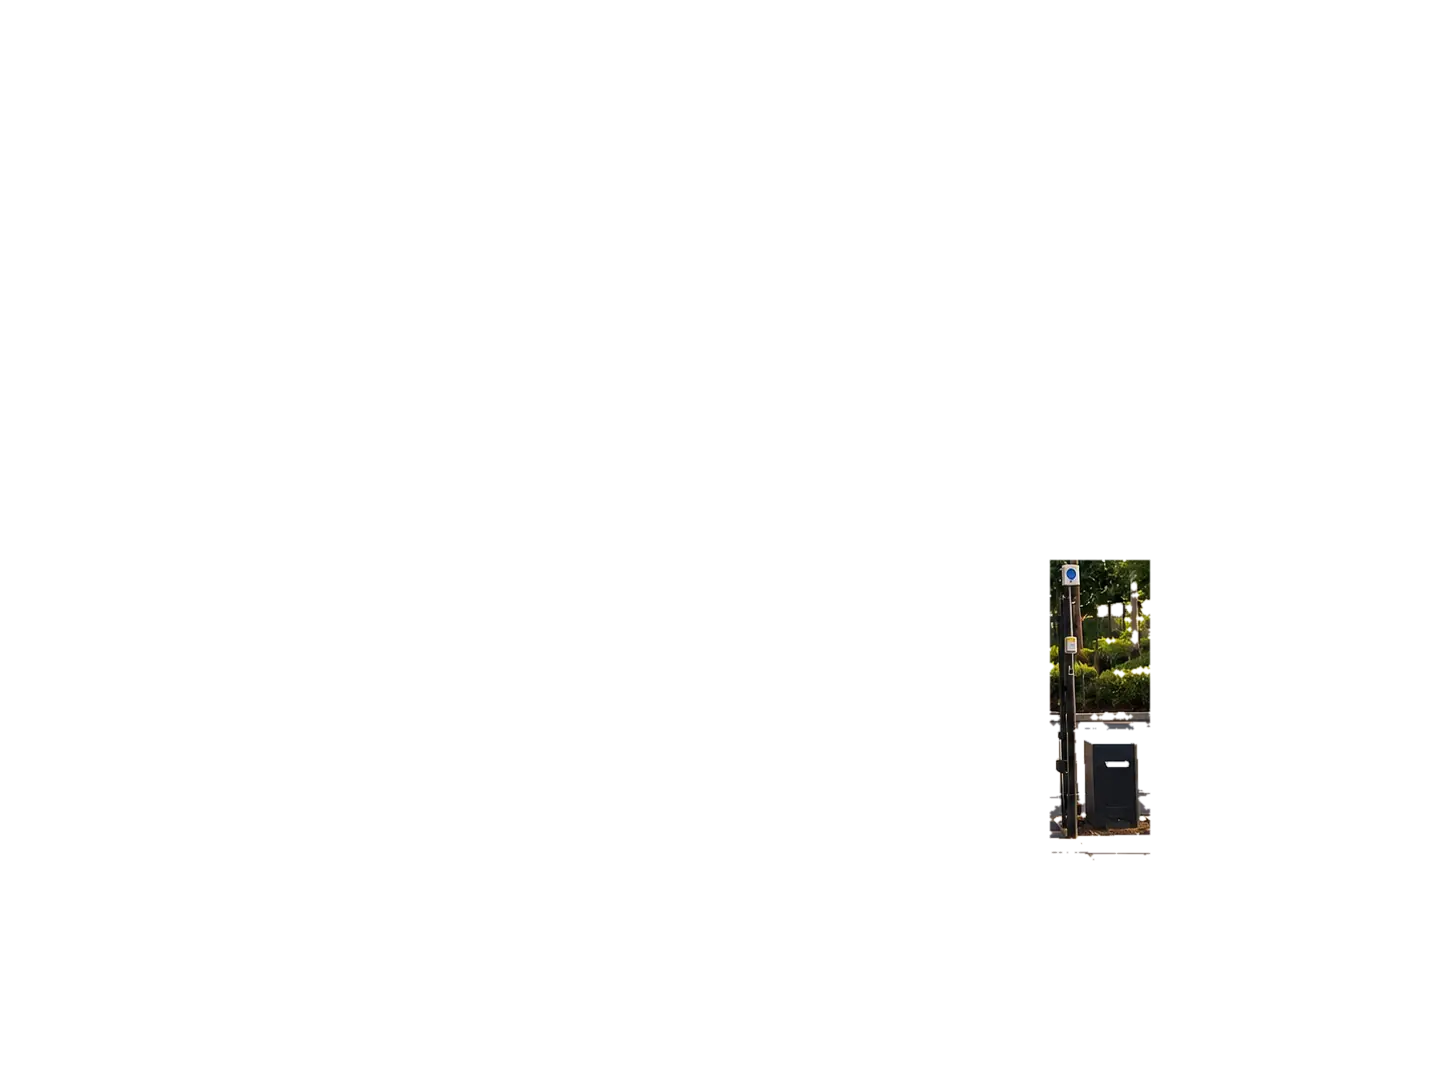
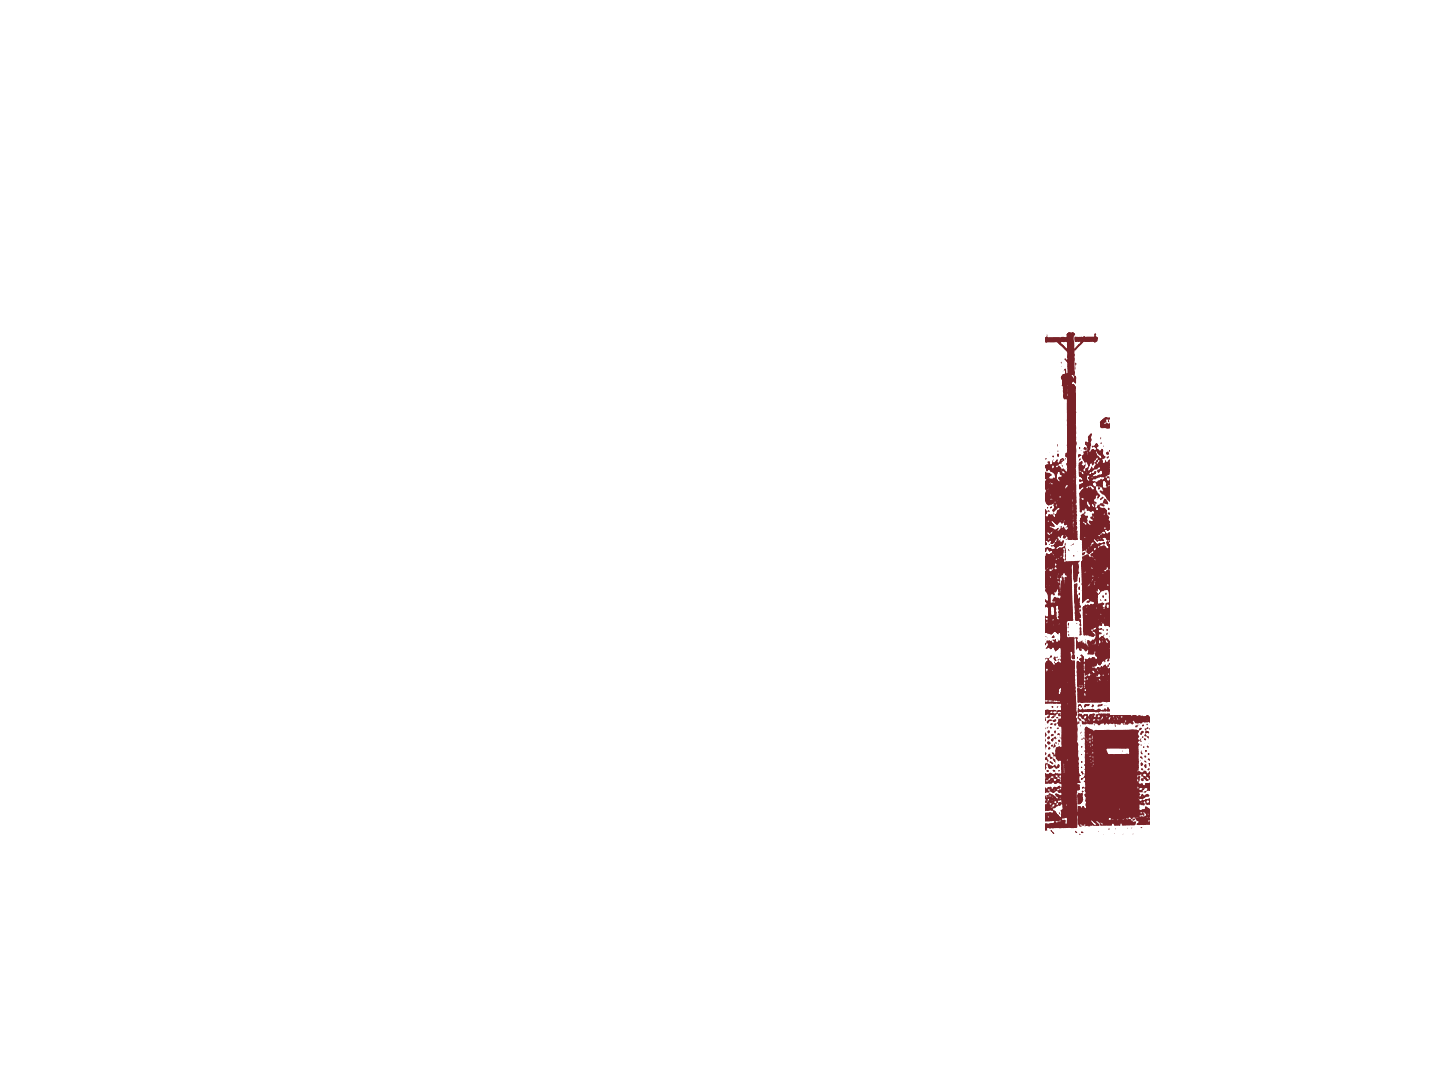
Publish site

Changed region(s): [[0.7148, 0.3039, 0.808, 0.7901]]

diff --git a/site.js b/site.js
@@ -313,19 +313,36 @@ function flowFrame() {
     f.style.transform = `translate3d(0,${((centre - innerHeight / 2) * .045).toFixed(1)}px,0) scale(${(small + (1 - small) * grown).toFixed(4)})`;
   });
 }
-// Ворота: сцена приближается слоями, ближний план быстрее дальнего, панель откатывается вправо и обратно вместе с прокруткой
-const room = $('.scene-room'), stage = $('.scene');
-const [far, mid, gateLayer, post, near] = ['.far', '.mid', '.gt', '.post', '.near'].map((c) => stage.querySelector(c));
+// Ворота: рисунок разрезан на полосы, как фигуры в оригинале. Полосы разъехались вверх и вниз и съезжаются в здание, встаёт солнце, потом ворота откатываются. Назад всё обратно
+const room = $('.scene-room'), stage = $('.scene'), set = $('.set'), sun = $('.sun'), gateLayer = $('.gt');
+let strips = null;
+function cutScene() {
+  const n = innerWidth < 900 ? 9 : 16;
+  strips = [...Array(n)].map((_, i) => {
+    const b = document.createElement('b');
+    b.style.cssText = `left:${i * 100 / n}%;width:calc(${100 / n}% + 1px);background-size:${n * 100}% 100%;background-position:${i * 100 / (n - 1)}% 0`;
+    const k = (i * .618) % 1;
+    b.far = (i % 2 ? 1 : -1) * (.3 + .4 * k);
+    b.from = ((i * .382) % 1) * .22;
+    set.insertBefore(b, gateLayer);
+    return b;
+  });
+  stage.classList.add('cut');
+}
+const toEase = (v) => 1 - (1 - v) ** 3;
 function sceneFrame() {
   const box = room.getBoundingClientRect();
   if (box.bottom < -innerHeight || box.top > innerHeight * 2) return;
-  const p = Math.min(1, Math.max(0, -box.top / Math.max(1, box.height - stage.offsetHeight)));
-  const open = Math.min(1, Math.max(0, (p - .12) / .7)), wide = Math.max(stage.offsetWidth, stage.offsetHeight * 4 / 3);
-  const s = 1 + .07 * p, x = open * open * (3 - 2 * open) * .43 * wide * s;
-  far.style.transform = `translate3d(0,${(p * -14).toFixed(1)}px,0) scale(${(1 + .02 * p).toFixed(4)})`;
-  mid.style.transform = post.style.transform = `scale(${s.toFixed(4)})`;
-  gateLayer.style.transform = `translate3d(${x.toFixed(1)}px,0,0) scale(${s.toFixed(4)})`;
-  near.style.transform = `scale(${(1 + .16 * p).toFixed(4)})`;
+  if (!strips) cutScene();
+  const tall = stage.offsetHeight, p = Math.min(1, Math.max(0, -box.top / Math.max(1, box.height - tall)));
+  strips.forEach((b) => {
+    const left = 1 - toEase(Math.min(1, Math.max(0, (p - b.from) / .3)));
+    b.style.transform = `translate3d(0,${(b.far * tall * left).toFixed(1)}px,0)`;
+  });
+  const open = Math.min(1, Math.max(0, (p - .55) / .38));
+  gateLayer.style.transform = `translate3d(${(open * open * (3 - 2 * open) * 43).toFixed(2)}%,0,0)`;
+  sun.style.transform = `translate3d(0,${((1 - toEase(Math.min(1, p / .6))) * 160).toFixed(1)}%,0)`;
+  set.style.transform = `scale(${(1 + .05 * p).toFixed(4)})`;
 }
 if (!still) {
   let flowQueued = false;

diff --git a/styles.css b/styles.css
@@ -135,16 +135,18 @@ figcaption{padding:16px var(--m);font-weight:600}
 .map:hover{color:var(--coral-d)}
 .nb{white-space:nowrap}
 
-/* Сцена с воротами: поле переходит в небо и асфальт без краёв. Экран стоит, пока идёт прокрутка: сцена приближается, ворота откатываются */
+/* Сцена с воротами: рисунок цветом текста прямо на поле страницы. Экран стоит, пока идёт прокрутка: полосы съезжаются в здание, ворота цвета кнопок откатываются */
 .scene-top{padding-bottom:0}
 .scene-end{padding-top:32px}
 .scene-end p{margin-top:0}
-.scene-room{height:230vh;height:230svh}
-.scene{position:sticky;top:0;height:100vh;height:100svh;overflow:hidden;overflow:clip}
-.scene img{position:absolute;inset:0;width:100%;height:100%;object-fit:cover;object-position:52% 62%;transform-origin:52% 62%;will-change:transform}
-.scene::before,.scene::after{content:"";position:absolute;z-index:1;left:0;right:0;pointer-events:none}
-.scene::before{top:0;height:46%;background:linear-gradient(var(--paper) 8%,rgba(240,239,235,.85) 30%,rgba(240,239,235,0))}
-.scene::after{bottom:0;height:20%;background:linear-gradient(rgba(240,239,235,0),var(--paper) 92%)}
+.scene-room{--h:100vh;--h:100svh;height:300vh;height:300svh}
+.scene{--w:max(100vw,calc(var(--h)*4/3));position:sticky;top:0;height:var(--h);overflow:hidden;overflow:clip}
+.set{position:absolute;left:calc((100vw - var(--w))*.52);top:calc((var(--h) - var(--w)*.75)*.62);width:var(--w);height:calc(var(--w)*.75);transform-origin:52% 62%}
+.set img{position:absolute;inset:0;width:100%;height:100%}
+.cut .whole{visibility:hidden}
+.cut b{position:absolute;top:0;height:100%;background:url(img/scene-print.webp) no-repeat;will-change:transform}
+.gt{will-change:transform}
+.sun{position:absolute;left:50%;top:24%;width:22%;aspect-ratio:1;border-radius:50%;background:var(--coral);will-change:transform}
 
 @media (max-width:899px){
   .flow{width:auto;margin:0;padding:80px var(--m)}
@@ -153,8 +155,8 @@ figcaption{padding:16px var(--m);font-weight:600}
   .flow .acts{margin-top:32px}
   .flow .btn{flex:1 1 100%}
   .big{margin-top:40px}
-  .scene-room{height:190vh;height:190svh}
-  .scene{top:14vh;top:14svh;height:72vh;height:72svh}
+  .scene-room{--h:72vh;--h:72svh;height:260vh;height:260svh}
+  .scene{top:14vh;top:14svh}
   .deco{float:none;margin:0 0 40px auto}
   .deco-mic{width:50%}
   .deco-phone{width:55%}
@@ -218,5 +220,6 @@ figcaption{padding:16px var(--m);font-weight:600}
   html{scroll-behavior:auto}
   .scene-room{height:auto}
   .scene{position:relative;top:0}
+  .gt{display:none}
   *,*::before,*::after{transition-duration:.01s!important;transition-delay:0s!important;animation-duration:.01s!important}
 }

diff --git a/index.html b/index.html
@@ -116,12 +116,13 @@
 <section id="gates">
   <div class="flow scene-top"><h2 class="rise" data-en="The building is gated, and tenants have 24/7 access">Здание за воротами, у арендаторов доступ круглосуточно</h2></div>
   <div class="scene-room">
-    <div class="scene">
-      <img class="far" src="img/scene-far.webp" width="1000" height="750" loading="lazy" alt="">
-      <img class="mid" src="img/scene-mid.webp" width="1448" height="1086" loading="lazy" alt="Откатные ворота, за ними парковка, слева кирпичное здание" data-en-alt="A sliding gate with the parking lot behind it and the brick building on the left">
-      <img class="gt" src="img/scene-gate.webp" width="1448" height="1086" loading="lazy" alt="">
-      <img class="post" src="img/scene-post.webp" width="1448" height="1086" loading="lazy" alt="">
-      <img class="near" src="img/scene-near.webp" width="1448" height="1086" loading="lazy" alt="">
+    <div class="scene" role="img" aria-label="Откатные ворота, за ними парковка, слева кирпичное здание" data-en-label="A sliding gate with the parking lot behind it and the brick building on the left">
+      <div class="set">
+        <i class="sun"></i>
+        <img class="whole" src="img/scene-print.webp" width="1448" height="1086" loading="lazy" alt="">
+        <img class="gt" src="img/scene-gate.webp" width="1448" height="1086" loading="lazy" alt="">
+        <img class="post" src="img/scene-post.webp" width="1448" height="1086" loading="lazy" alt="">
+      </div>
     </div>
   </div>
   <div class="flow scene-end"><p class="rise" data-en="Parking behind the gate, security cameras, a conference room for tenants, everything on one floor.">Парковка за воротами, камеры, переговорная для арендаторов, всё на одном этаже.</p></div>
